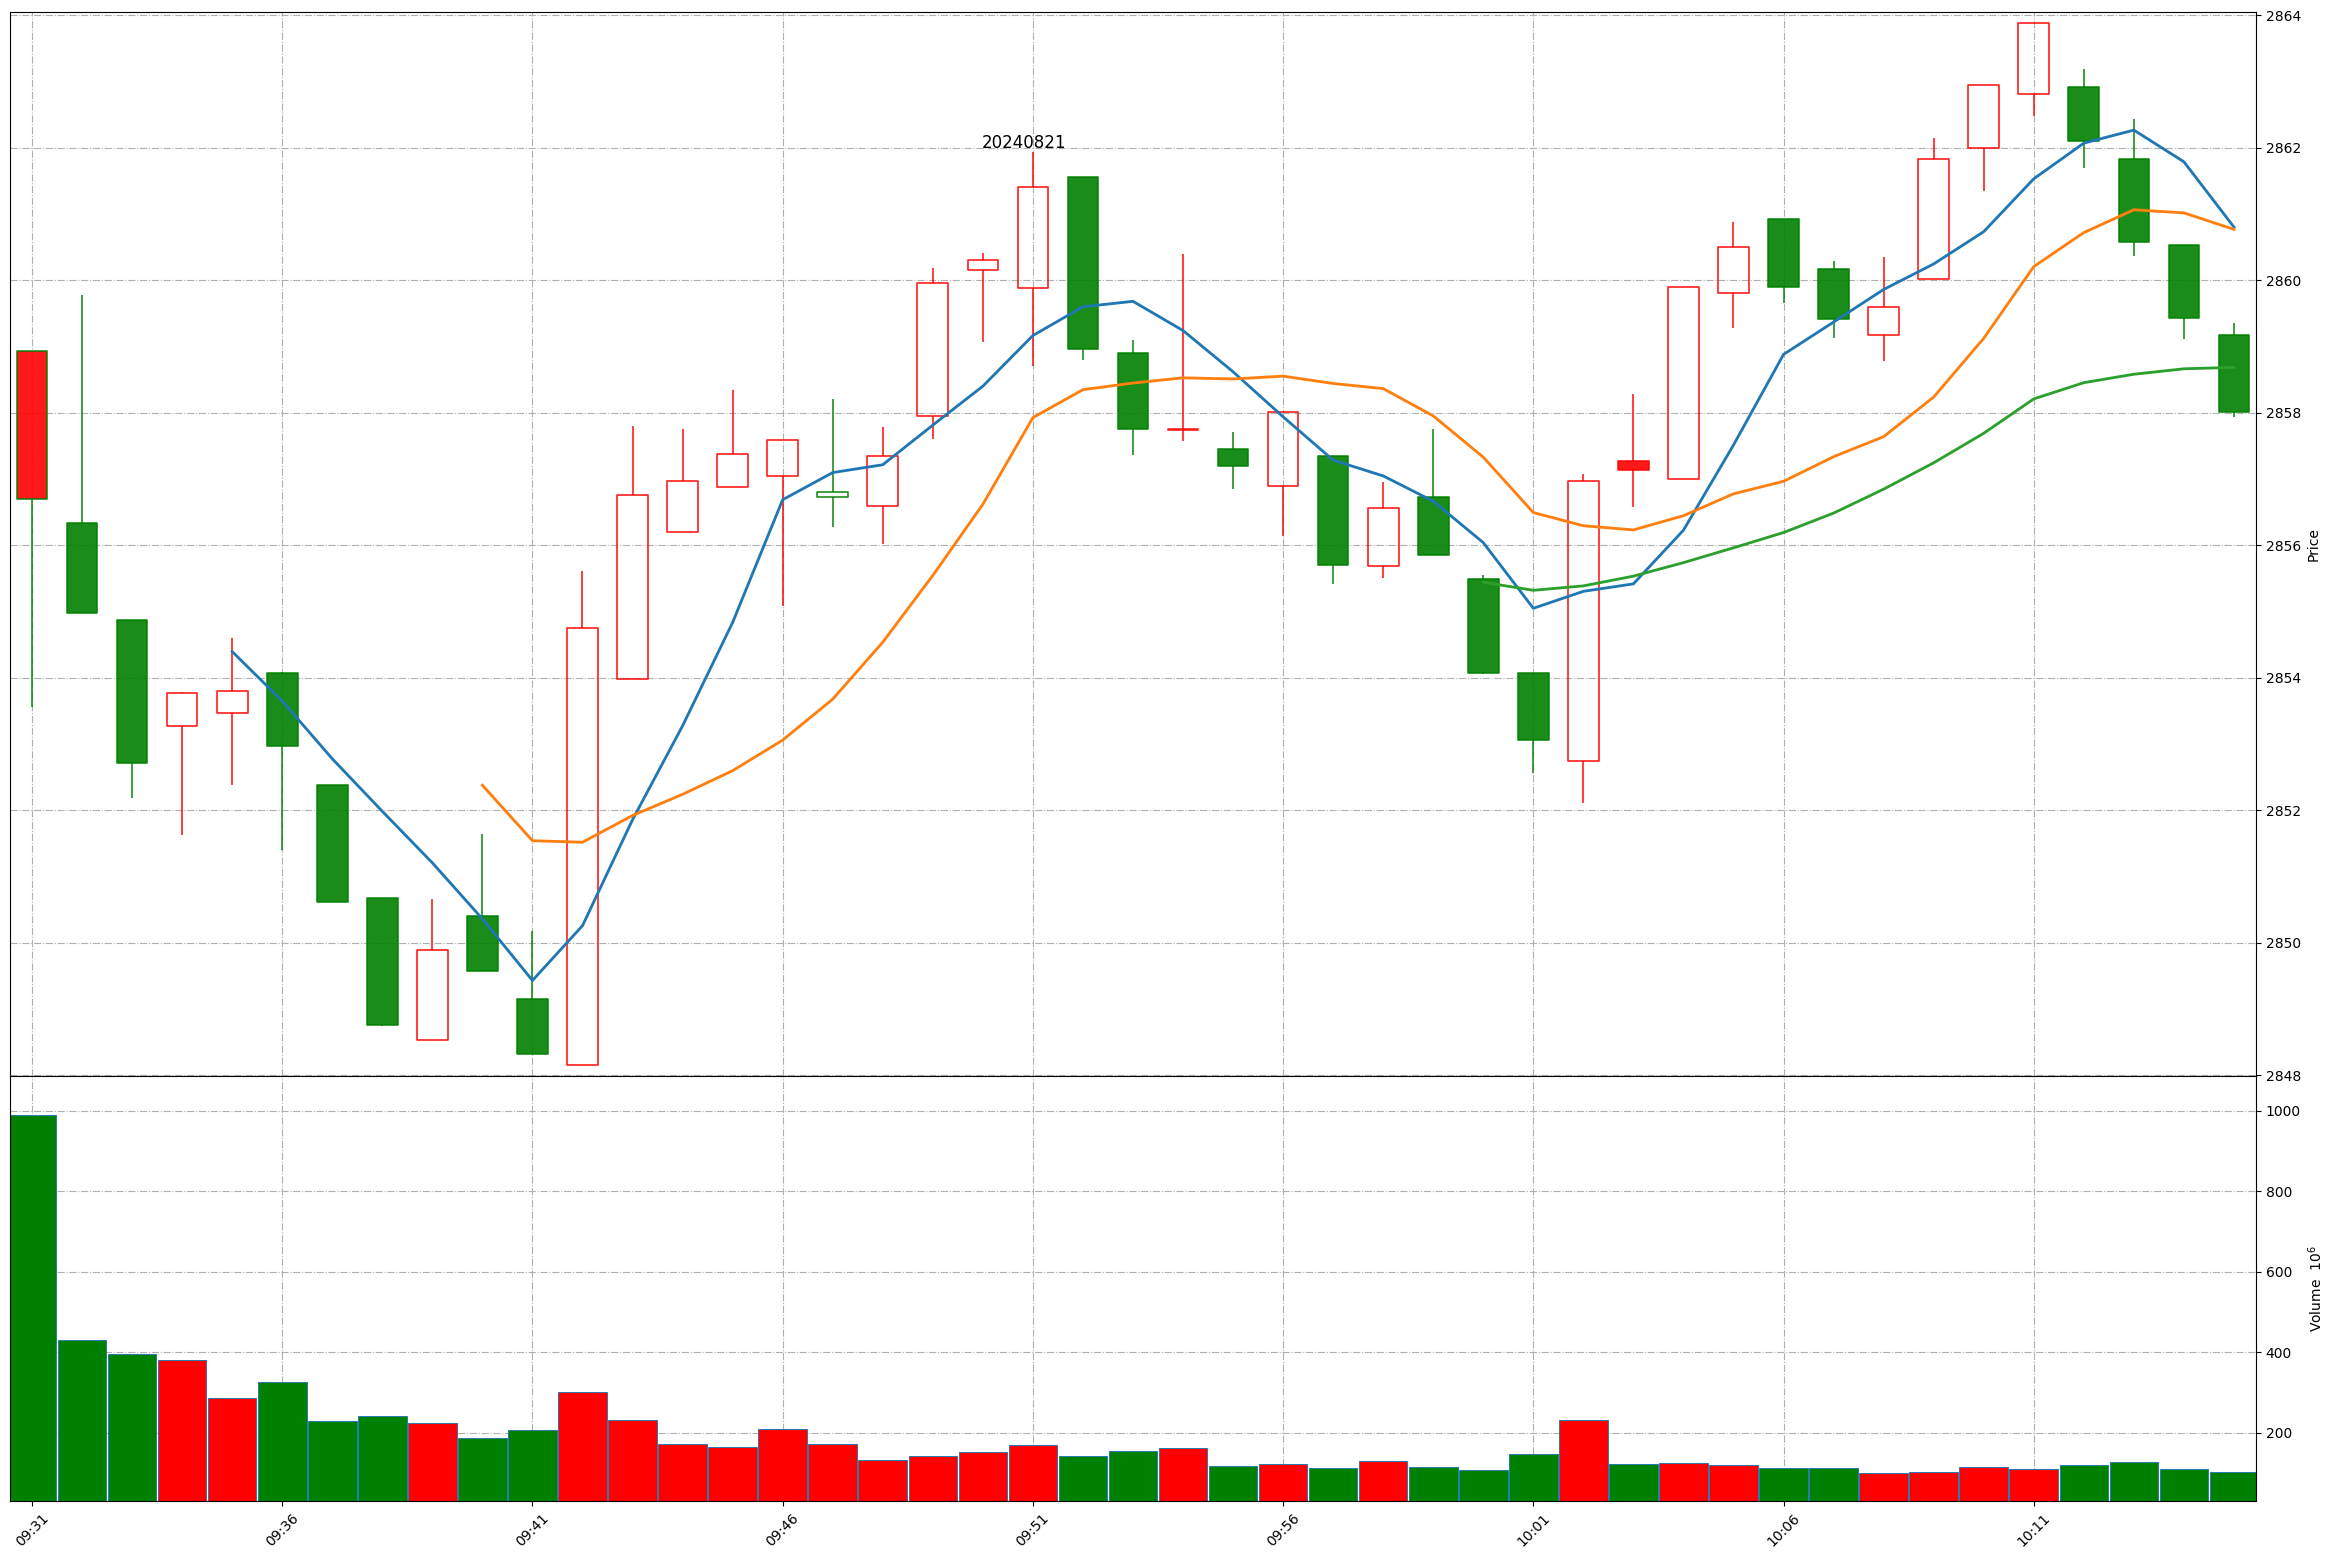
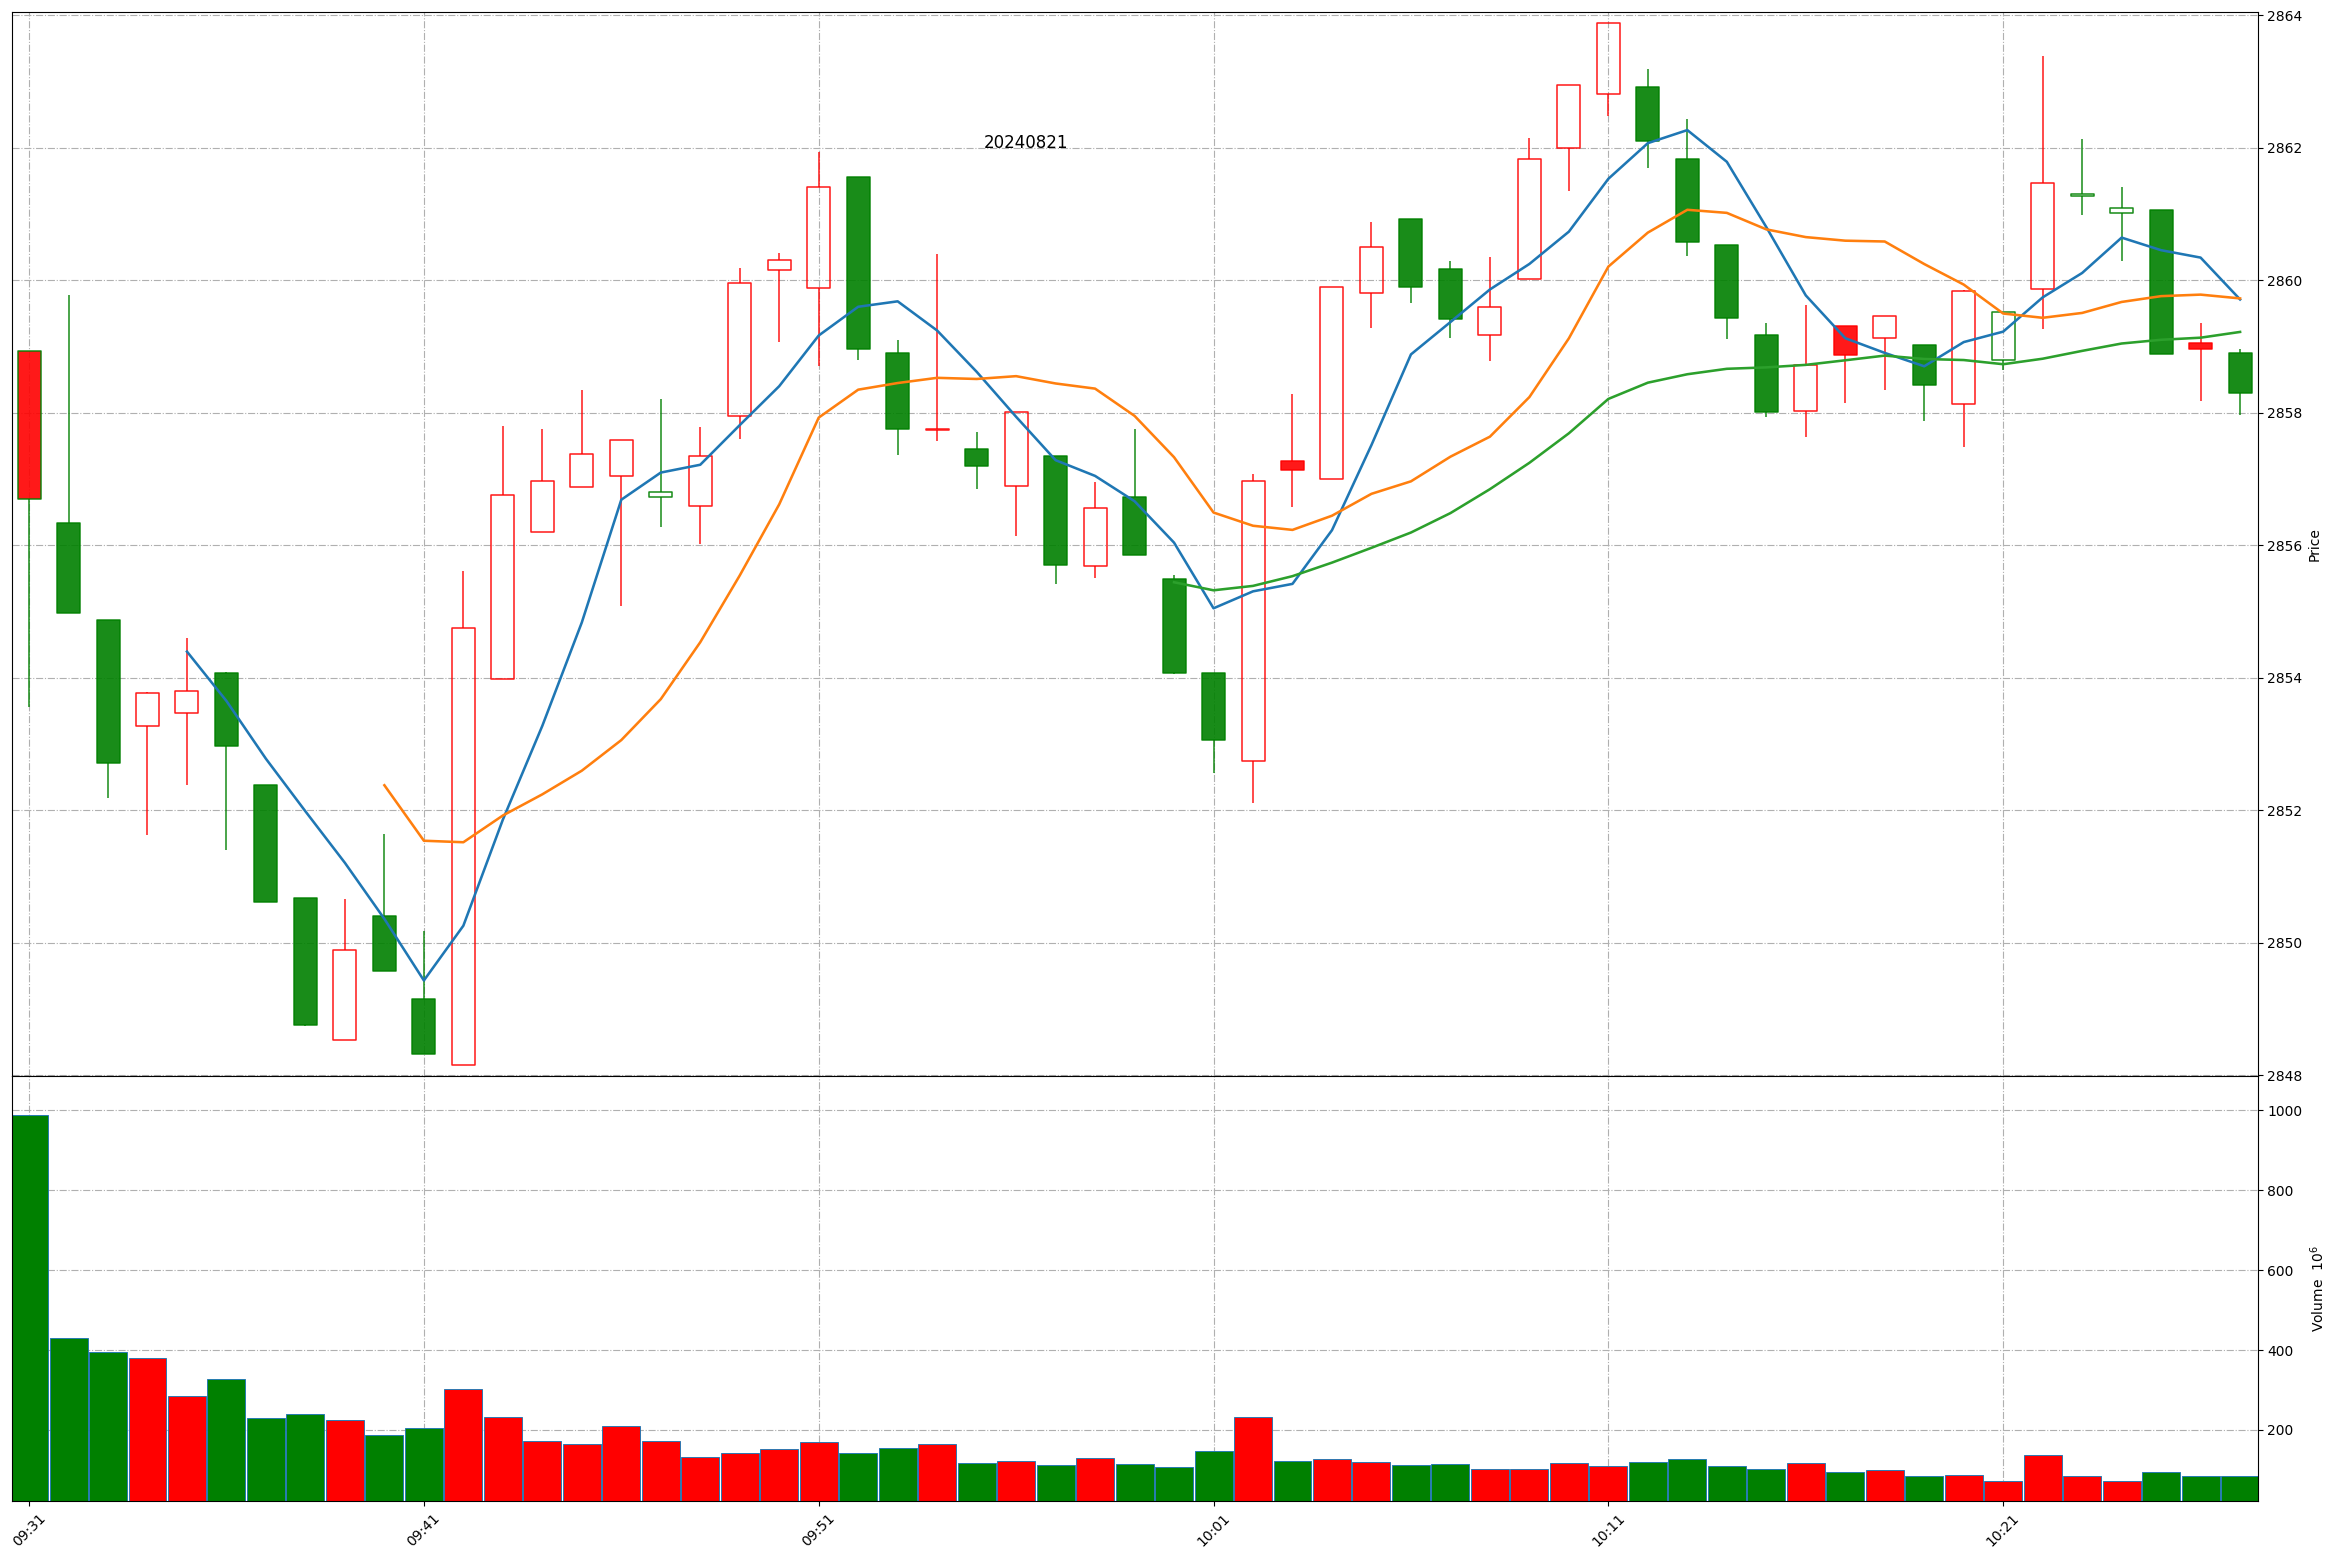
Github action update at 2024-08-21 10:27:09.

diff --git a/README.md b/README.md
@@ -1,11 +1,11 @@
 
 # Daily-A-share-market-quotes 每日 A 股指数（5min 更新）- 20240821
 
-### 上证指数 20240821 10:15
+### 上证指数 20240821 10:27
 ![](./fig/2024/8/20240821-sh000001.png)
 
-### 深证成指 20240821 10:15
+### 深证成指 20240821 10:27
 ![](./fig/2024/8/20240821-sz399001.png)
 
-### 北证50 20240821 10:15
+### 北证50 20240821 10:27
 ![](./fig/2024/8/20240821-bj899050.png)
